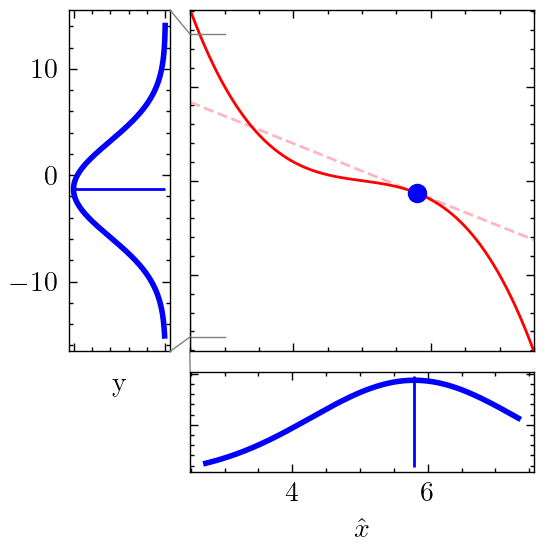
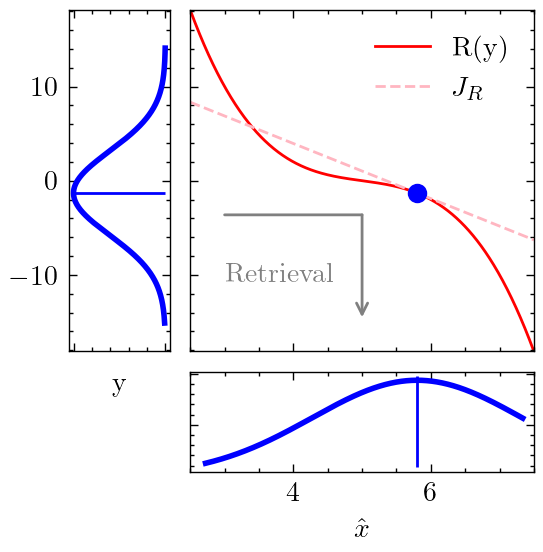
ready for agu2025

diff --git a/code/delta_method.py b/code/delta_method.py
@@ -60,10 +60,10 @@ y = forward(x * t.ones((1, N), **d)) + noise
 def loss_fn(y, x_hat):
     return t.sum((y - forward(x_hat))**2) / y.nelement()
 
-iterations = 20000
+iterations = 200
 t.manual_seed(4)
 x_hat = t.rand((1, N), requires_grad=True, **d)
-optim = t.optim.Adam([x_hat], lr=1e-2)
+optim = t.optim.Adam([x_hat], lr=1e-0)
 
 loss_hist = []
 # for _ in range(iterations):
@@ -128,7 +128,7 @@ print(f'\nIFT vs Laplace (full) difference: {float(abs(σi - σl)/max(abs(σl), 
 import matplotlib
 matplotlib.use('Agg')
 from matplotlib.gridspec import GridSpec
-from matplotlib.patches import ConnectionPatch
+from matplotlib.patches import ConnectionPatch, Arrow
 from scipy.stats import gaussian_kde
 a = lambda arr: arr.detach().cpu().numpy()
 
@@ -148,13 +148,29 @@ ax_marg_y = fig.add_subplot(gs[0:3,0])
 
 ax_joint.scatter(a(x_hat[0]), a(y[0]))
 
+def draw_annotation(ax):
+
+    ax.annotate(
+        "", xytext=(.1, .4), xy=(.5, .4), xycoords='axes fraction',
+        arrowprops=dict(shrinkA=0, shrinkB=0, color='grey', arrowstyle="-"),
+    )
+    ax.annotate(
+        "", xytext=(.5, .4), xy=(.5, .1), xycoords='axes fraction',
+        arrowprops=dict(shrinkA=0, shrinkB=0, color='grey', arrowstyle="->"),
+    )
+    ax.annotate(
+        "Retrieval", xy=(.1, .2), xycoords='axes fraction', color='grey'
+    )
+
+
 # plot true function
 x_true = t.linspace(*xlim, 1000, **d)
 y_true = forward(x_true)
 x_true, y_true = a(x_true), a(y_true)
 ylim = (y_true.min(), y_true.max())
 ax_joint.plot(x_true, y_true, 'r-', label='R(y)')
-# ax_joint.legend()
+ax_joint.legend()
+draw_annotation(ax_joint)
 plt.setp(ax_joint.get_xticklabels(), visible=False)
 plt.setp(ax_joint.get_yticklabels(), visible=False)
 ax_joint.set_xlim(xlim)
@@ -191,8 +207,8 @@ ax_marg_y.plot(kde_scaled, a(y_kde), 'b-', linewidth=2)
 ax_marg_y.set_xlabel('y')
 plt.setp(ax_marg_y.get_xticklabels(), visible=False)
 ax_marg_y.invert_xaxis()
-# ax_marg_y.set_ylim(ylim)
-# ax_marg_y.yaxis.tick_right()
+ax_marg_y.set_ylim(ax_joint.get_ylim())
+ax_marg_x.set_xlim(ax_joint.get_xlim())
 
 def draw_outset_lines(fig, ax_joint, ax_marg_x, ax_marg_y):
 
@@ -200,7 +216,7 @@ def draw_outset_lines(fig, ax_joint, ax_marg_x, ax_marg_y):
     y_ylim = ax_marg_y.get_ylim()
     x_xlim = ax_marg_x.get_xlim()
 
-    style = {'color': 'grey', 'linewidth': 0.5}
+    style = {'color': 'black', 'linewidth': 0.5}
 
     # marginal y outset plot lines - bottom
     con = ConnectionPatch(
@@ -231,7 +247,7 @@ def draw_outset_lines(fig, ax_joint, ax_marg_x, ax_marg_y):
     fig.add_artist(con)
     ax_joint.axvline(x_xlim[0], ymax=0.1, **style)
 
-    # marginal y outset plot lines - top
+    # marginal y outset plot lines - right
     con = ConnectionPatch(
         xyA=(1, 1), coordsA='axes fraction', axesA=ax_marg_x,
         xyB=(x_xlim[1], ylim[0]), coordsB='data', axesB=ax_joint,
@@ -240,7 +256,7 @@ def draw_outset_lines(fig, ax_joint, ax_marg_x, ax_marg_y):
     fig.add_artist(con)
     ax_joint.axvline(x_xlim[1], ymax=0.1, **style)
 
-draw_outset_lines(fig, ax_joint, ax_marg_x, ax_marg_y)
+# draw_outset_lines(fig, ax_joint, ax_marg_x, ax_marg_y)
 
 # plt.suptitle("Monte Carlo")
 # plt.tight_layout()
@@ -258,16 +274,19 @@ ax_marg_y = fig.add_subplot(gs[0:3,0])
 
 # center plot
 
-slope = float(t.func.grad(forward)(x_hat[0, 0]))
-ax_joint.axline((float(x_hat[0, 0]), float(y[0, 0])), slope=slope, color='lightpink', linestyle='--')
 
 # plot true function
-xxx = ax_joint.plot(x_true, y_true, 'r-', label='R(y)')
-ax_joint.scatter(float(x_hat[0, 0]), float(y[0, 0]), color='blue', zorder=2)
+xxx = ax_joint.plot(x_true, y_true, 'r-', label='R(y)', zorder=1)
+ax_joint.scatter(float(x_hat[0, 0]), float(y[0, 0]), color='blue', zorder=10)
 plt.setp(ax_joint.get_xticklabels(), visible=False)
 plt.setp(ax_joint.get_yticklabels(), visible=False)
 ax_joint.set_xlim(xlim)
 ax_joint.set_ylim(ylim)
+
+slope = float(t.func.grad(forward)(x_hat[0, 0]))
+ax_joint.axline((float(x_hat[0, 0]), float(y[0, 0])), slope=slope, color='lightpink', linestyle='--', label=r'$J_R$')
+ax_joint.legend()
+draw_annotation(ax_joint)
 
 # x marginal plot
 
@@ -304,10 +323,10 @@ ax_marg_y.plot(a(ypdf_scaled), a(y_gaus), 'b-', linewidth=2, label='Posterior')
 ax_marg_y.set_xlabel('y')
 plt.setp(ax_marg_y.get_xticklabels(), visible=False)
 ax_marg_y.invert_xaxis()
-# ax_marg_y.set_ylim(ylim)
-# ax_marg_y.yaxis.tick_right()
+ax_marg_y.set_ylim(ax_joint.get_ylim())
+ax_marg_x.set_xlim(ax_joint.get_xlim())
 
-draw_outset_lines(fig, ax_joint, ax_marg_x, ax_marg_y)
+# draw_outset_lines(fig, ax_joint, ax_marg_x, ax_marg_y)
 
 # plt.suptitle(f'Delta Method w/ IFT')
 # plt.tight_layout()
@@ -319,16 +338,3 @@ plt.ylabel('Loss')
 plt.xlabel('Iteration')
 plt.title('Loss History')
 plt.savefig('/www/loss.png', dpi=200)
-
-print(f'MC Iterative μ:', float(x_hat.mean()))
-print('\n--- x̂ Uncertainty ---')
-print(f'           MC Iterative σ²: {float(σm:=x_hat.var()):.3e}')
-print(f'                    IFT σ²: {float(σi:=Σ_x):.3e}')
-print(f'  Laplace (full formula) σ²: {float(σl:=Σ_x_laplace):.3e}')
-print(f'Laplace (simple H^-1 only) σ²: {float(σls:=Σ_x_laplace_simple):.3e}')
-
-print(f'\nError vs MC:')
-print(f'  IFT:              {float((σi - σm)/σm) * 100:+.2f}%')
-print(f'  Laplace (full):   {float((σl - σm)/σm) * 100:+.2f}%')
-print(f'  Laplace (simple): {float((σls - σm)/σm) * 100:+.2f}%')
-print(f'\nIFT vs Laplace (full) difference: {float(abs(σi - σl)/max(abs(σl), 1e-10)) * 100:+.2f}%')
